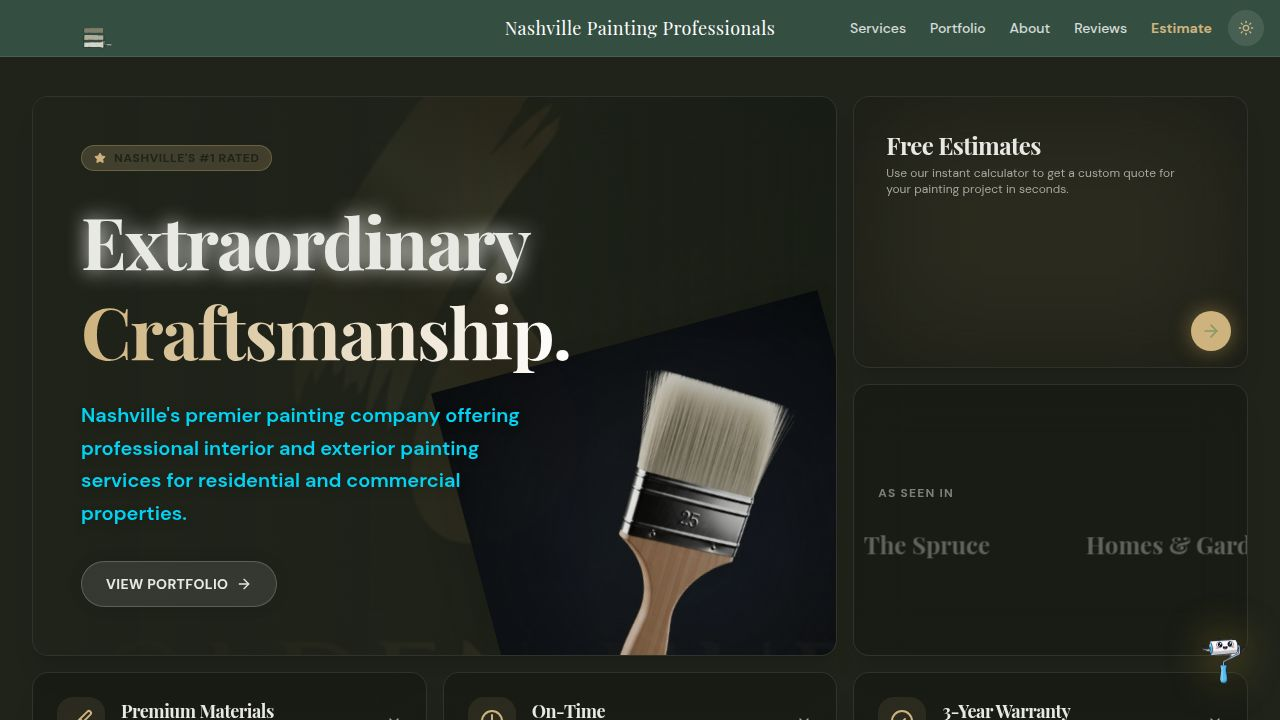
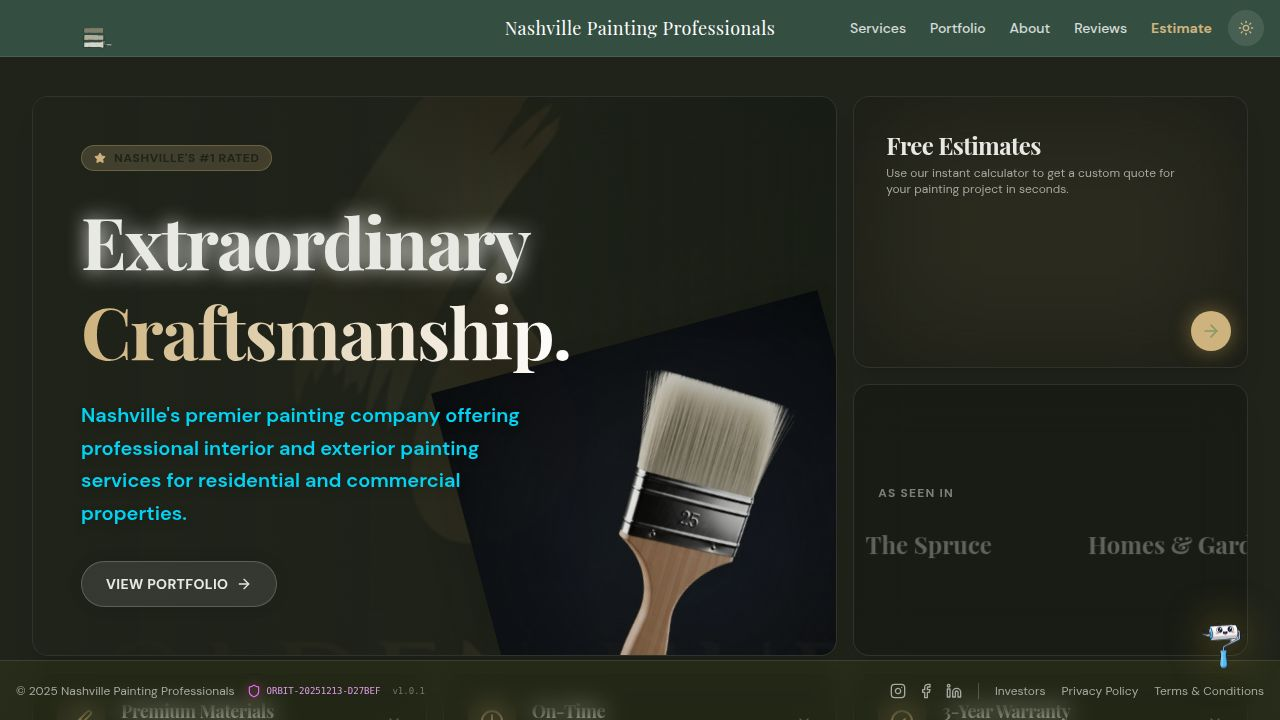
Adjust AI assistant's position to appear higher on the screen
Update the fixed positioning of the PaintBuddy component from `bottom-6` to `bottom-[54px]` in `paint-buddy.tsx` to move the AI assistant element up.

Replit-Commit-Author: Agent
Replit-Commit-Session-Id: 9640b7bd-518e-421e-8382-ba3444a8e185
Replit-Commit-Checkpoint-Type: full_checkpoint
Replit-Commit-Event-Id: 1fdd1f20-98fc-4d59-ba04-f1853c583194
Replit-Commit-Screenshot-Url: https://storage.googleapis.com/screenshot-production-us-central1/57a1a84c-83d8-41f5-82c5-8661edb484a4/9640b7bd-518e-421e-8382-ba3444a8e185/4LDNY85
Replit-Helium-Checkpoint-Created: true

diff --git a/client/src/components/ui/paint-buddy.tsx b/client/src/components/ui/paint-buddy.tsx
@@ -158,7 +158,7 @@ export function PaintBuddy() {
             whileHover={{ scale: 1.15 }}
             whileTap={{ scale: 0.9 }}
             onClick={handleOpen}
-            className="fixed bottom-6 right-6 z-50 group"
+            className="fixed bottom-[54px] right-6 z-50 group"
             data-testid="button-paint-buddy-open"
           >
             <motion.img
@@ -188,7 +188,7 @@ export function PaintBuddy() {
             initial={{ opacity: 0, y: 20, scale: 0.95 }}
             animate={{ opacity: 1, y: 0, scale: 1 }}
             exit={{ opacity: 0, y: 20, scale: 0.95 }}
-            className="fixed bottom-6 right-6 z-50 w-[380px] h-[500px] bg-gray-900/95 backdrop-blur-xl rounded-2xl border border-white/10 shadow-2xl flex flex-col overflow-hidden"
+            className="fixed bottom-[54px] right-6 z-50 w-[380px] h-[500px] bg-gray-900/95 backdrop-blur-xl rounded-2xl border border-white/10 shadow-2xl flex flex-col overflow-hidden"
             data-testid="panel-paint-buddy-chat"
           >
             <div className="p-4 border-b border-white/10 flex items-center gap-3 bg-gradient-to-r from-accent/20 to-cyan-500/20">
